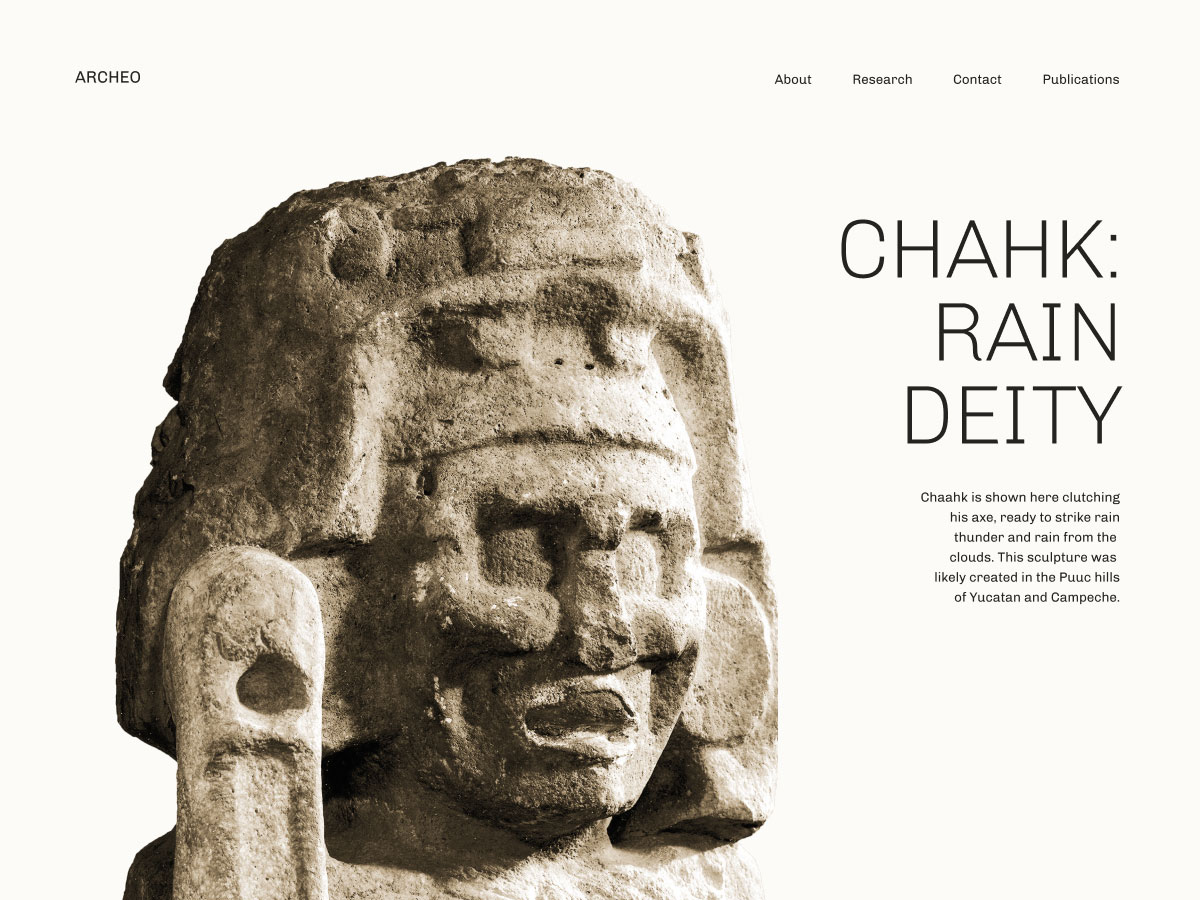
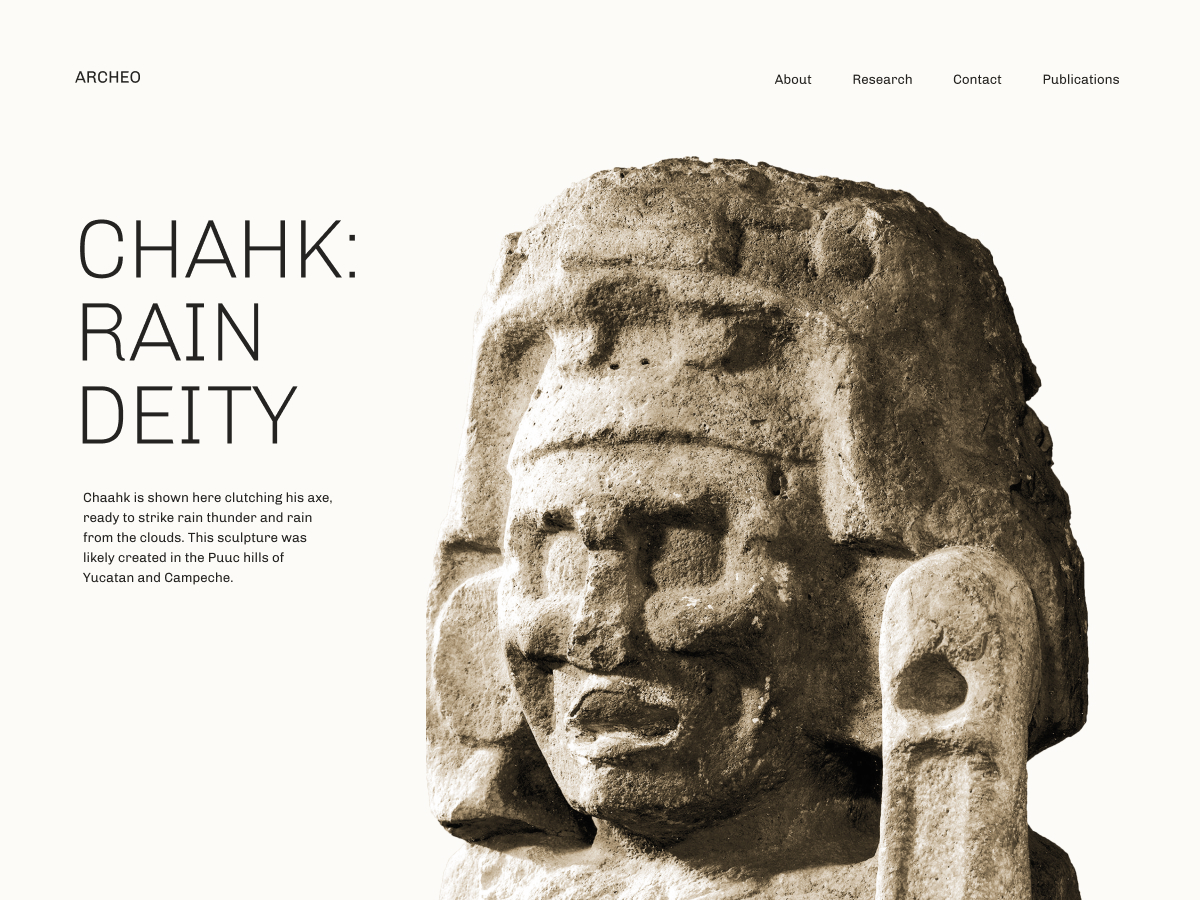
Tidy up the main homepage pattern.

diff --git a/archeo/inc/patterns/image-with-headline-description.php b/archeo/inc/patterns/image-with-headline-description.php
@@ -6,30 +6,26 @@ return array(
 	'title'      => __( 'Image with headline and description', 'archeo' ),
 	'categories' => array( 'featured', 'images' ),
 	'content'    => '<!-- wp:columns {"align":"wide"} -->
-	<div class="wp-block-columns alignwide"><!-- wp:column {"width":"64%"} -->
-	<div class="wp-block-column" style="flex-basis:64%"><!-- wp:group -->
-	<div class="wp-block-group"><!-- wp:image {"sizeSlug":"full","linkDestination":"none"} -->
-	<figure class="wp-block-image size-full"><img src="' . esc_url( get_template_directory_uri() ) . '/assets/images/chahk.gif" alt="' . esc_attr__( 'Chahk: rain deity', 'archeo' ) . '"/></figure>
-	<!-- /wp:image --></div>
-	<!-- /wp:group --></div>
-	<!-- /wp:column -->
+					<div class="wp-block-columns alignwide"><!-- wp:column -->
+					<div class="wp-block-column"><!-- wp:heading {"textAlign":"left","style":{"typography":{"fontSize":"clamp(64px, 6vw, 100px)","lineHeight":"1","textTransform":"uppercase"},"spacing":{"margin":{"bottom":"1rem"}}}} -->
+					<h2 class="has-text-align-left" style="font-size:clamp(64px, 6vw, 100px);line-height:1;margin-bottom:1rem;text-transform:uppercase">' . wp_kses_post( __( 'Chahk:<br>Rain<br>deity', 'archeo' ) ) . '</h2>
+					<!-- /wp:heading -->
 
-	<!-- wp:column -->
-	<div class="wp-block-column"><!-- wp:heading {"textAlign":"right","style":{"typography":{"fontSize":"clamp(64px, 6vw, 100px)","lineHeight":"1","textTransform":"uppercase"}}} -->
-	<h2 class="has-text-align-right" id="chahk-raindeity" style="font-size:clamp(64px, 6vw, 100px);line-height:1;text-transform:uppercase">' . wp_kses_post( __( 'Chahk:<br>Rain<br>deity', 'archeo' ) ) . '</h2>
-	<!-- /wp:heading -->
+					<!-- wp:columns -->
+					<div class="wp-block-columns"><!-- wp:column {"width":"80%"} -->
+					<div class="wp-block-column" style="flex-basis:80%"><!-- wp:paragraph {"align":"left","fontSize":"small"} -->
+					<p class="has-text-align-left has-small-font-size">' . esc_html__( 'Chaahk is shown here clutching his axe, ready to strike rain and thunder from the clouds. This sculpture was likely created in the Puuc hills of Yucatan and Campeche.', 'archeo' ) . '</p>
+					<!-- /wp:paragraph --></div>
+					<!-- /wp:column --></div>
+					<!-- /wp:columns --></div>
+					<!-- /wp:column -->
 
-	<!-- wp:columns -->
-	<div class="wp-block-columns"><!-- wp:column {"width":"26%"} -->
-	<div class="wp-block-column" style="flex-basis:26%"></div>
-	<!-- /wp:column -->
-
-	<!-- wp:column {"width":""} -->
-	<div class="wp-block-column"><!-- wp:paragraph {"align":"right","fontSize":"small"} -->
-	<p class="has-text-align-right has-small-font-size">' . esc_html__( 'Chaahk is shown here clutching his axe, ready to strike rain and thunder from the clouds. This sculpture was likely created in the Puuc hills of Yucatan and Campeche.', 'archeo' ) . '</p>
-	<!-- /wp:paragraph --></div>
-	<!-- /wp:column --></div>
-	<!-- /wp:columns --></div>
-	<!-- /wp:column --></div>
-	<!-- /wp:columns -->',
+					<!-- wp:column {"width":"70%"} -->
+					<div class="wp-block-column" style="flex-basis:70%"><!-- wp:group -->
+					<div class="wp-block-group"><!-- wp:image {"sizeSlug":"full","linkDestination":"none"} -->
+					<figure class="wp-block-image size-full"><img src="' . esc_url( get_template_directory_uri() ) . '/assets/images/chahk.gif" alt="' . esc_attr__( 'Chahk: rain deity', 'archeo' ) . '"/></figure>
+					<!-- /wp:image --></div>
+					<!-- /wp:group --></div>
+					<!-- /wp:column --></div>
+					<!-- /wp:columns -->',
 );
